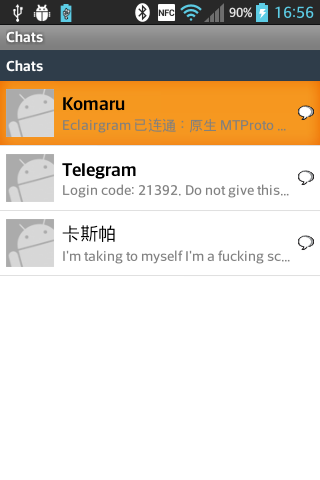
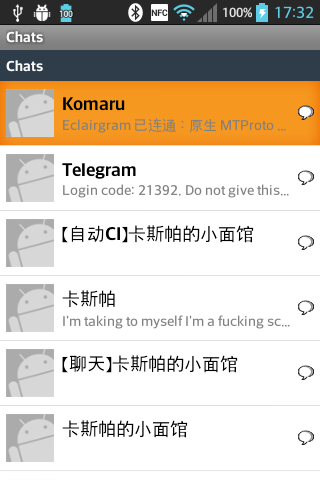
支持群组与频道：会话列表/聊天/发送均接受通用 peer
- MtpClient：把 getHistory / sendMessage 泛化为接受 InputPeer，
  新增 inputPeerUser / inputPeerChat / inputPeerChannel 构造器
- DialogsActivity：会话列表同时解析 peerUser / peerChat / peerChannel，
  群组与频道名取自 chats（channel 带 access_hash）
- ChatActivity：用 peer 字节打开任意类型的会话并发送
- TgCli：history / send 同步改为通用 peer

实测（LG-E610 / 4.0.3）：列表出现群组与频道（用户 + 群 + 频道混排）。

diff --git a/app/single/src/cc/wuersan008/eclairgram/DialogsActivity.java b/app/single/src/cc/wuersan008/eclairgram/DialogsActivity.java
@@ -20,6 +20,7 @@ import java.util.HashMap;
 import java.util.List;
 import java.util.Map;
 
+import cc.wuersan008.eclairgram.mtproto.MtpClient;
 import cc.wuersan008.eclairgram.mtproto.TlObject;
 
 /**
@@ -31,8 +32,7 @@ import cc.wuersan008.eclairgram.mtproto.TlObject;
 public class DialogsActivity extends Activity {
 
     static final class Row {
-        long uid;
-        long accessHash;
+        byte[] peer;
         String name;
         String status;
     }
@@ -73,8 +73,7 @@ public class DialogsActivity extends Activity {
             public void onItemClick(AdapterView<?> p, View v, int pos, long id) {
                 Row r = mAdapter.getItem(pos);
                 Intent i = new Intent(DialogsActivity.this, ChatActivity.class);
-                i.putExtra("uid", r.uid);
-                i.putExtra("accessHash", r.accessHash);
+                i.putExtra("peer", r.peer);
                 i.putExtra("name", r.name);
                 startActivity(i);
             }
@@ -120,6 +119,7 @@ public class DialogsActivity extends Activity {
         List<Object> users = d.list("users");
         List<Object> messages = d.list("messages");
         List<Object> dialogs = d.list("dialogs");
+        List<Object> chats = d.list("chats");
 
         Map<Long, String> names = new HashMap<Long, String>();
         Map<Long, Long> access = new HashMap<Long, Long>();
@@ -150,20 +150,45 @@ public class DialogsActivity extends Activity {
                 }
             }
         }
+        Map<Long, String> chatNames = new HashMap<Long, String>();
+        Map<Long, Long> chatAccess = new HashMap<Long, Long>();
+        if (chats != null) {
+            for (Object o : chats) {
+                TlObject c = (TlObject) o;
+                long id = c.i64("id");
+                String title = c.str("title");
+                chatNames.put(Long.valueOf(id), title == null ? "" : title);
+                if (c.type().equals("channel")) {
+                    chatAccess.put(Long.valueOf(id), Long.valueOf(c.i64("access_hash")));
+                }
+            }
+        }
         List<Row> rows = new ArrayList<Row>();
         if (dialogs != null) {
             for (Object o : dialogs) {
                 TlObject dg = (TlObject) o;
                 TlObject peer = dg.obj("peer");
-                if (peer == null || !peer.type().equals("peerUser")) continue;
-                long uid = peer.i64("user_id");
+                if (peer == null) continue;
                 Row r = new Row();
-                r.uid = uid;
-                Long ah = access.get(Long.valueOf(uid));
-                r.accessHash = ah == null ? 0L : ah.longValue();
-                String nm = names.get(Long.valueOf(uid));
-                if (nm == null || nm.trim().length() == 0) nm = "User " + uid;
-                r.name = nm;
+                String t = peer.type();
+                if (t.equals("peerUser")) {
+                    long uid = peer.i64("user_id");
+                    Long ah = access.get(Long.valueOf(uid));
+                    r.peer = MtpClient.inputPeerUser(uid, ah == null ? 0L : ah.longValue());
+                    r.name = names.get(Long.valueOf(uid));
+                } else if (t.equals("peerChat")) {
+                    long cid = peer.i64("chat_id");
+                    r.peer = MtpClient.inputPeerChat(cid);
+                    r.name = chatNames.get(Long.valueOf(cid));
+                } else if (t.equals("peerChannel")) {
+                    long cid = peer.i64("channel_id");
+                    Long ah = chatAccess.get(Long.valueOf(cid));
+                    r.peer = MtpClient.inputPeerChannel(cid, ah == null ? 0L : ah.longValue());
+                    r.name = chatNames.get(Long.valueOf(cid));
+                } else {
+                    continue;
+                }
+                if (r.name == null || r.name.trim().length() == 0) r.name = "Chat";
                 r.status = msgText.get(Integer.valueOf(dg.i32("top_message")));
                 rows.add(r);
             }

diff --git a/telegram/src/cc/wuersan008/eclairgram/mtproto/MtpClient.java b/telegram/src/cc/wuersan008/eclairgram/mtproto/MtpClient.java
@@ -362,8 +362,22 @@ public final class MtpClient {
     }
 
     // ============================================================ 业务 API
-    private static void writeInputPeerUser(Tl.Writer w, long userId, long accessHash) {
+    public static byte[] inputPeerUser(long userId, long accessHash) {
+        Tl.Writer w = new Tl.Writer();
         w.int32(TlSchema.INPUT_PEER_USER).int64(userId).int64(accessHash);
+        return w.toByteArray();
+    }
+
+    public static byte[] inputPeerChat(long chatId) {
+        Tl.Writer w = new Tl.Writer();
+        w.int32(TlSchema.INPUT_PEER_CHAT).int64(chatId);
+        return w.toByteArray();
+    }
+
+    public static byte[] inputPeerChannel(long channelId, long accessHash) {
+        Tl.Writer w = new Tl.Writer();
+        w.int32(TlSchema.INPUT_PEER_CHANNEL).int64(channelId).int64(accessHash);
+        return w.toByteArray();
     }
 
     /** messages.getDialogs：拉取会话列表（返回原始 TlObject，由上层解读）。 */
@@ -380,11 +394,11 @@ public final class MtpClient {
         return TlObject.read(new Tl.Reader(res));
     }
 
-    /** messages.getHistory：某个用户的最近消息。 */
-    public TlObject getHistoryUser(long userId, long accessHash, int limit) throws IOException {
+    /** messages.getHistory：某个 peer 的最近消息。 */
+    public TlObject getHistory(byte[] inputPeer, int limit) throws IOException {
         Tl.Writer w = new Tl.Writer();
         w.int32(TlSchema.MESSAGES_GET_HISTORY);
-        writeInputPeerUser(w, userId, accessHash);
+        w.raw(inputPeer);
         w.int32(0)                       // offset_id
          .int32(0)                       // offset_date
          .int32(0)                       // add_offset
@@ -396,13 +410,12 @@ public final class MtpClient {
         return TlObject.read(new Tl.Reader(res));
     }
 
-    /** messages.sendMessage：给某个用户发一条文本消息。 */
-    public TlObject sendMessageToUser(long userId, long accessHash, String text)
-            throws IOException {
+    /** messages.sendMessage：给某个 peer 发一条文本消息。 */
+    public TlObject sendMessage(byte[] inputPeer, String text) throws IOException {
         Tl.Writer w = new Tl.Writer();
         w.int32(TlSchema.MESSAGES_SEND_MESSAGE)
          .int32(0);                      // flags
-        writeInputPeerUser(w, userId, accessHash);
+        w.raw(inputPeer);
         w.string(text)
          .int64(Crypto.longLE(Crypto.random(8), 0));   // random_id
         byte[] res = (byte[]) rpc(wrapped(w.toByteArray()));

diff --git a/app/single/src/cc/wuersan008/eclairgram/ChatActivity.java b/app/single/src/cc/wuersan008/eclairgram/ChatActivity.java
@@ -34,8 +34,7 @@ public class ChatActivity extends Activity {
         String text;
     }
 
-    private long mUid;
-    private long mAccessHash;
+    private byte[] mPeer;
     private String mName;
 
     private final Handler mMain = new Handler(Looper.getMainLooper());
@@ -47,8 +46,7 @@ public class ChatActivity extends Activity {
     @Override
     protected void onCreate(Bundle savedInstanceState) {
         super.onCreate(savedInstanceState);
-        mUid = getIntent().getLongExtra("uid", 0);
-        mAccessHash = getIntent().getLongExtra("accessHash", 0);
+        mPeer = getIntent().getByteArrayExtra("peer");
         mName = getIntent().getStringExtra("name");
         if (mName == null) mName = "";
 
@@ -116,7 +114,7 @@ public class ChatActivity extends Activity {
             public void run() {
                 try {
                     TelegramManager.get(ChatActivity.this)
-                            .syncSendMessage(mUid, mAccessHash, text);
+                            .syncSendMessage(mPeer, text);
                 } catch (final Throwable t) {
                     mMain.post(new Runnable() {
                         public void run() {
@@ -135,7 +133,7 @@ public class ChatActivity extends Activity {
     private void refresh() {
         try {
             TlObject hist = TelegramManager.get(this)
-                    .syncGetHistory(mUid, mAccessHash, 50);
+                    .syncGetHistory(mPeer, 50);
             List<Object> msgs = hist.list("messages");
             final List<Msg> out = new ArrayList<Msg>();
             if (msgs != null) {

diff --git a/telegram/tools/TgCli.java b/telegram/tools/TgCli.java
@@ -71,7 +71,8 @@ public class TgCli {
             long uid = Long.parseLong(args[1]);
             long ah = Long.parseLong(args[2]);
             String text = args[3];
-            cc.wuersan008.eclairgram.mtproto.TlObject res = c.sendMessageToUser(uid, ah, text);
+            cc.wuersan008.eclairgram.mtproto.TlObject res =
+                    c.sendMessage(MtpClient.inputPeerUser(uid, ah), text);
             System.out.println("SEND type=" + res.type());
             c.close();
             return;
@@ -80,7 +81,8 @@ public class TgCli {
         if ("history".equals(cmd)) {
             long uid = Long.parseLong(args[1]);
             long ah = Long.parseLong(args[2]);
-            cc.wuersan008.eclairgram.mtproto.TlObject res = c.getHistoryUser(uid, ah, 20);
+            cc.wuersan008.eclairgram.mtproto.TlObject res =
+                    c.getHistory(MtpClient.inputPeerUser(uid, ah), 20);
             java.util.List<Object> msgs = res.list("messages");
             System.out.println("HISTORY type=" + res.type() + " count="
                     + (msgs == null ? 0 : msgs.size()));

diff --git a/app/single/src/cc/wuersan008/eclairgram/TelegramManager.java b/app/single/src/cc/wuersan008/eclairgram/TelegramManager.java
@@ -201,17 +201,17 @@ public final class TelegramManager {
         }
     }
 
-    public TlObject syncGetHistory(long userId, long accessHash, int limit) throws Exception {
+    public TlObject syncGetHistory(byte[] inputPeer, int limit) throws Exception {
         synchronized (mNet) {
             ensureConnected();
-            return mClient.getHistoryUser(userId, accessHash, limit);
+            return mClient.getHistory(inputPeer, limit);
         }
     }
 
-    public void syncSendMessage(long userId, long accessHash, String text) throws Exception {
+    public void syncSendMessage(byte[] inputPeer, String text) throws Exception {
         synchronized (mNet) {
             ensureConnected();
-            mClient.sendMessageToUser(userId, accessHash, text);
+            mClient.sendMessage(inputPeer, text);
         }
     }
 

diff --git a/telegram/src/cc/wuersan008/eclairgram/mtproto/TlSchema.java b/telegram/src/cc/wuersan008/eclairgram/mtproto/TlSchema.java
@@ -60,6 +60,7 @@ public final class TlSchema {
     public static final int INPUT_PEER_SELF = 0x7da07ec9;
     public static final int INPUT_PEER_USER = 0xdde8a54c;
     public static final int INPUT_PEER_CHAT = 0x35a95cb9;
+    public static final int INPUT_PEER_CHANNEL = 0x27bcbbfc;
     public static final int PEER_USER = 0x59511722;
     public static final int PEER_CHAT = 0x36c6019a;
     public static final int PEER_CHANNEL = 0xa2a5371e;
